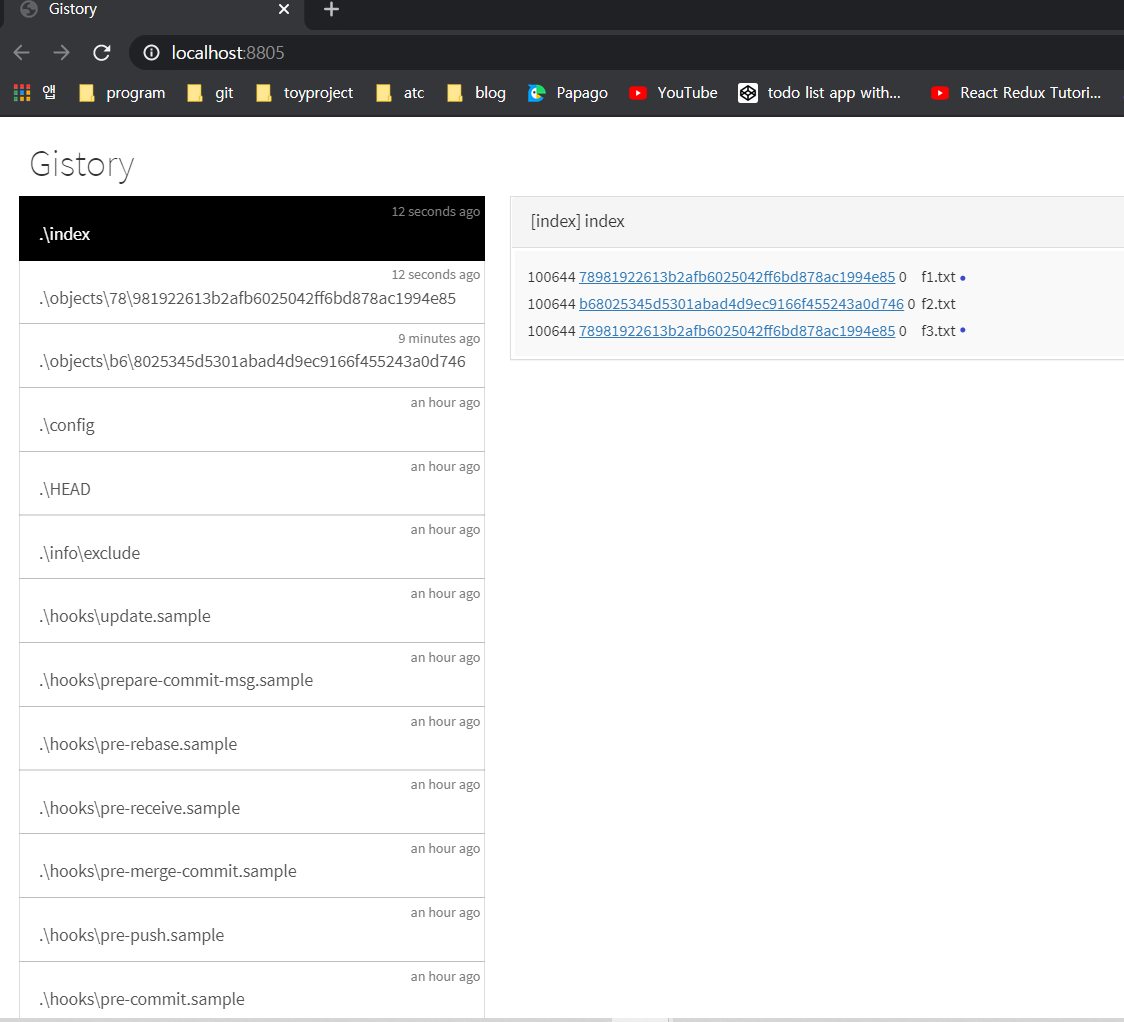
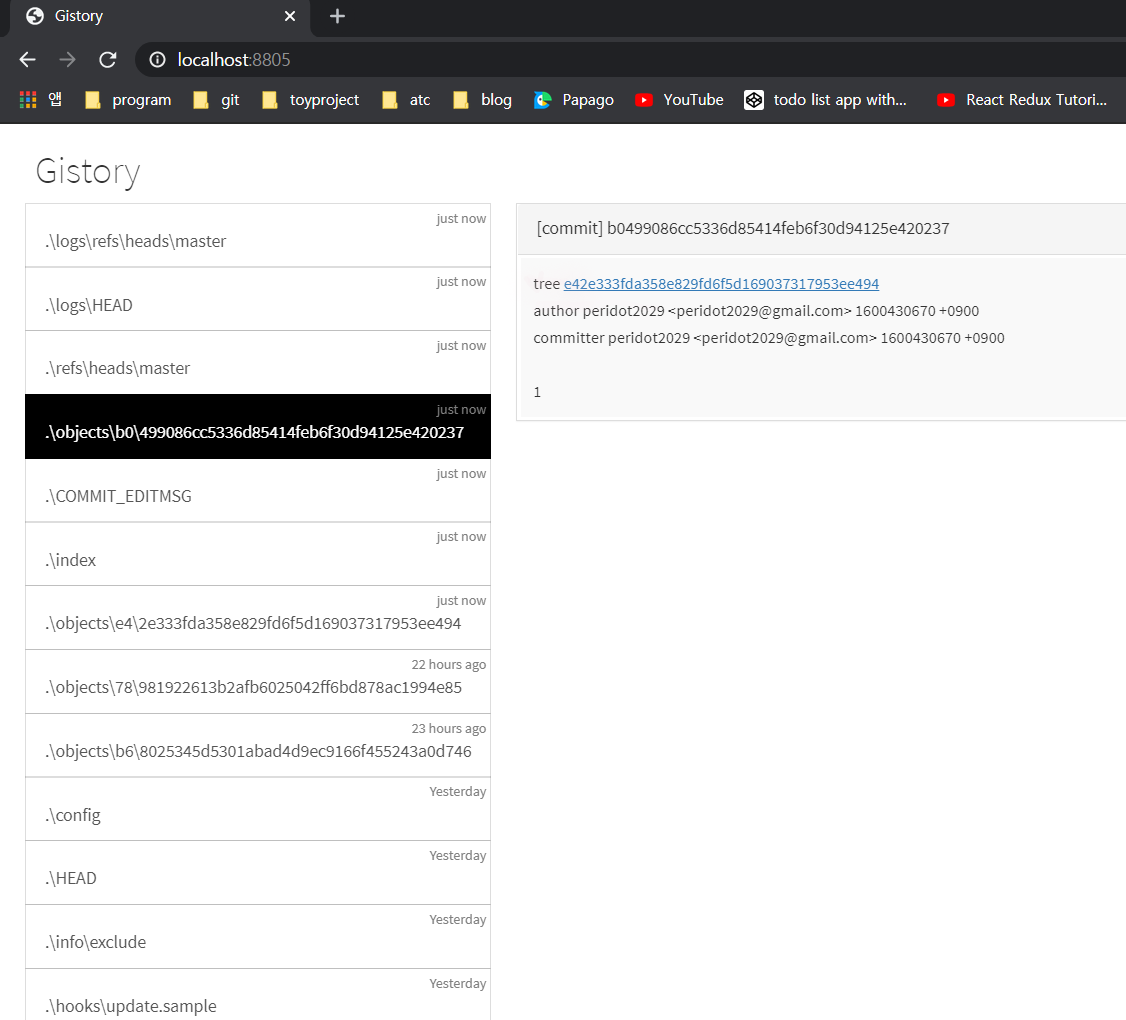
GitBook: [master] 56 pages and 4 assets modified

diff --git a/git/gistory-objects-filename.md b/git/gistory-objects-filename.md
@@ -1,6 +1,100 @@
-# 📄 Gistory - objects filename
+# 📄 Gistory - objects filename, commit
 
-## 1. Gitstory - objects filename 
+## 1. Gitstory - objects filename, commit 
 
-objects 파일 이름에 대한 원리 
+### \(1\).  objects 파일명의 원리
+
+objects 파일명의 원리는 내용을 기반으로 파일 이름이 결정되는 [**메커니즘 \(mechanism\)**](https://ko.wikipedia.org/wiki/%EB%A9%94%EC%BB%A4%EB%8B%88%EC%A6%98)이 무엇을 사용하는지에 대한 정리
+
+* google 에서 [**sha1 oneline** ](http://www.sha1-online.com/)검색해서 이동한다.
+* `hi` 라는 내용을 쳐서 **hash** 버튼을 누르게 되면 밑에 입력된 어떠한 숫자들이 나오는데 , 그 원리는 입력된 문자는 **hash** 라는 메커니즘을 통과하면 **어떤 숫자들이 생성**된다.
+* 즉, **Git**은 **sha1** 이라는 **hash** 알고리즘을 통과해서 그 파일의 이름을 도출한 다음\(임의의 hash 값들\), 앞의 **두 글자를 따서 디렉토리**를 만들고, **나머지 hash 코드에 해당하는 파일에 저장** 되게 한다.
+
+### \(2\).  git commit의 원리
+
+[Gistory - Introduction, git add](https://app.gitbook.com/@peridot2029/s/til/~/drafts/-MHVQf9-8KYC2UpVXy4t/git/git-branch) 글에서   `git add`까지 했었다. 
+
+이제 git commit을 하고, 커밋 메세지를 작성 후 gistory 에 흐름을 확인. 
+
+```bash
+# git status를 하면 생성한 f1.txt, f2.txt, f3.txt 파일 나온다.
+$ git status
+On branch master
+
+No commits yet
+
+Changes to be committed:
+  (use "git rm --cached <file>..." to unstage)
+        new file:   f1.txt
+        new file:   f2.txt
+        new file:   f3.txt
+        
+# add한 f1.txt, f2,txt, f3.txt 파일 commit 
+$ git commit -m"1"
+[master (root-commit) b049908] 1
+ 3 files changed, 3 insertions(+)
+ create mode 100644 f1.txt
+ create mode 100644 f2.txt
+ create mode 100644 f3.txt
+
+# log 조회
+$ git log --oneline
+b049908 (HEAD -> master) 1
+```
+
+* `git commit`를 하게되면 그 커밋에 대한 정보 및 버전은 **objects** 로 저장이 된다.
+* 생성된 **./objects** 에는 **커밋에 대한 정보,  tree**가 있다. 
+* **tree**는 **현재 커밋한 파일명**과 **그 파일들에 대한 링크**가 있다.
+* 🤚 **commit**도 **내부적으로 객체**이다. 
+
+![add &#x2192; commit&#xC744; &#xD558;&#xBA74; &#xADF8; &#xCEE4;&#xBC0B;&#xC5D0; &#xB300;&#xD55C; &#xC815;&#xBCF4;&#xAC00; object&#xB85C; &#xC800;&#xC7A5;&#xB41C;&#xB2E4;.  ](../.gitbook/assets/2020-09-18-212741.png)
+
+*  **f2.txt** 파일 내용을 바꾼 후,`git add` 하고, **gistory**를 확인하면 **./index** 파일에 .**/object** 에서 변경된 **f2.txt** 내용이 확인 가능하다.
+* `git commit`한 후에 **gistory**를 확인해보면 **커밋이 담겨 있는 객체 생성된 것을 확인** 할 수 있다.
+* 위에서 사진을 보면 아까와 없던 `parent`가 생성되고, 누르면 **해당 커밋의 이전 내용을 확인** 할 수 있다.
+* **tree**는 2개의 내용이 존재한다. **현재와 이전 커밋의 tree 값**이 서로 다르다.
+  * 각각의 버전마다 서로 다른 tree 가리킨다. 해당 tree에는 파일의 이름과 내용이 각각 링크 되어있다.
+
+```bash
+# f2.txt 파일 내용 변경
+$ vi f2.txt
+
+# 변경된 f2.txt 파일 확인
+$ cat f2.txt
+y
+z
+
+# 변경 f2.txt 파일 git add
+$ git add f2.txt
+
+# add한 f2.txt 파일 git commit
+$ git commit -m"2"
+[master 7a61f7a] 2
+ 1 file changed, 1 insertion(+)
+
+# log 확인
+$ git log --oneline
+7a61f7a (HEAD -> master) 2
+b049908 1
+
+
+
+
+```
+
+![f2.txt &#xD30C;&#xC77C; &#xB0B4;&#xC6A9;&#xC744; &#xBC14;&#xAFBC; &#xD6C4;&#xC5D0; commit&#xB97C; &#xD558;&#xBA74; &#xC544;&#xAE4C;&#xC640;&#xB294; &#xC5C6;&#xB358; parent &#xB098;&#xD0C0;&#xB09C;&#xB2E4;.](../.gitbook/assets/2020-09-18-213502.png)
+
+* 커밋에는 두 가지 중요한 정보가 있다.
+  * 이전 커밋이 누구인지\(**parent** 값이 존재\)
+  * 그 커밋이 일어난 시점에 작업이 디렉토리 파일의 이름과 이름이 담고 있는 내용 사이의 정보가 **tree**에 담긴다.
+
+### \(3\). objects 파일 영역
+
+ objects 파일은 크게 3가지로 나뉜다.
+
+* **blob** - 파일의 내용 가지고 있다.
+* **tree** - 파일명, 그 파일명에 내용 해당하는 **blob** 정보를 담고 있다.
+*  **commit** - object id를 가지고 있다.
+
+
 

diff --git a/git/git-branch.md b/git/git-branch.md
@@ -55,7 +55,7 @@ $ git add f1.txt
 
 새로운 또 다른 파일을 만들고 `git add`를 하면 **gistory** **./index**에서 각각 파일명과 그 파일에 해당하는 내용을 볼 수 있다.
 
-🤚 여기서 주의할 점은 **f3.txt** 파일은 **f1.txt** 파일의 **내용을 복사**해서 만들었기 때문에 내용 같다. 요약하자면 **Git은 파일이 이름이 달라도 내용이 같으면 같은 객체를\(  bject\)를  가리킨다.**
+🤚 여기서 주의할 점은 **f3.txt** 파일은 **f1.txt** 파일의 **내용을 복사**해서 만들었기 때문에 내용 같다. 요약하자면 **Git은 파일이 이름이 달라도 내용이 같으면 같은 객체 \(object\)를  가리킨다.**
 
 ```bash
 # 새로운 또 다른 파일 f2.txt 파일을 만들고 add 명령어 실행, gistory 확
@@ -66,13 +66,13 @@ z
 
 $ git add f2.txt
 
-# f1.txt 파일을 f3.txt로 복
+# f1.txt 파일을 f3.txt로 복사
 $ cp f1.txt f3.txt
 
 $ git add f3.txt
 ```
 
-![](../.gitbook/assets/.png%20%287%29.png)
+![](../.gitbook/assets/.png%20%288%29.png)
 
 
 

diff --git a/SUMMARY.md b/SUMMARY.md
@@ -8,7 +8,7 @@
 * [📄 Git - init, add, commit, status, log](git/git-init-add-commit-status-log.md)
 * [📄Git - reset, revert](git/git-reset-revert.md)
 * [📄 Gistory -  Introduction, git add](git/git-branch.md)
-* [📄 Gistory - objects filename](git/gistory-objects-filename.md)
+* [📄 Gistory - objects filename, commit](git/gistory-objects-filename.md)
 
 ## HTML
 
